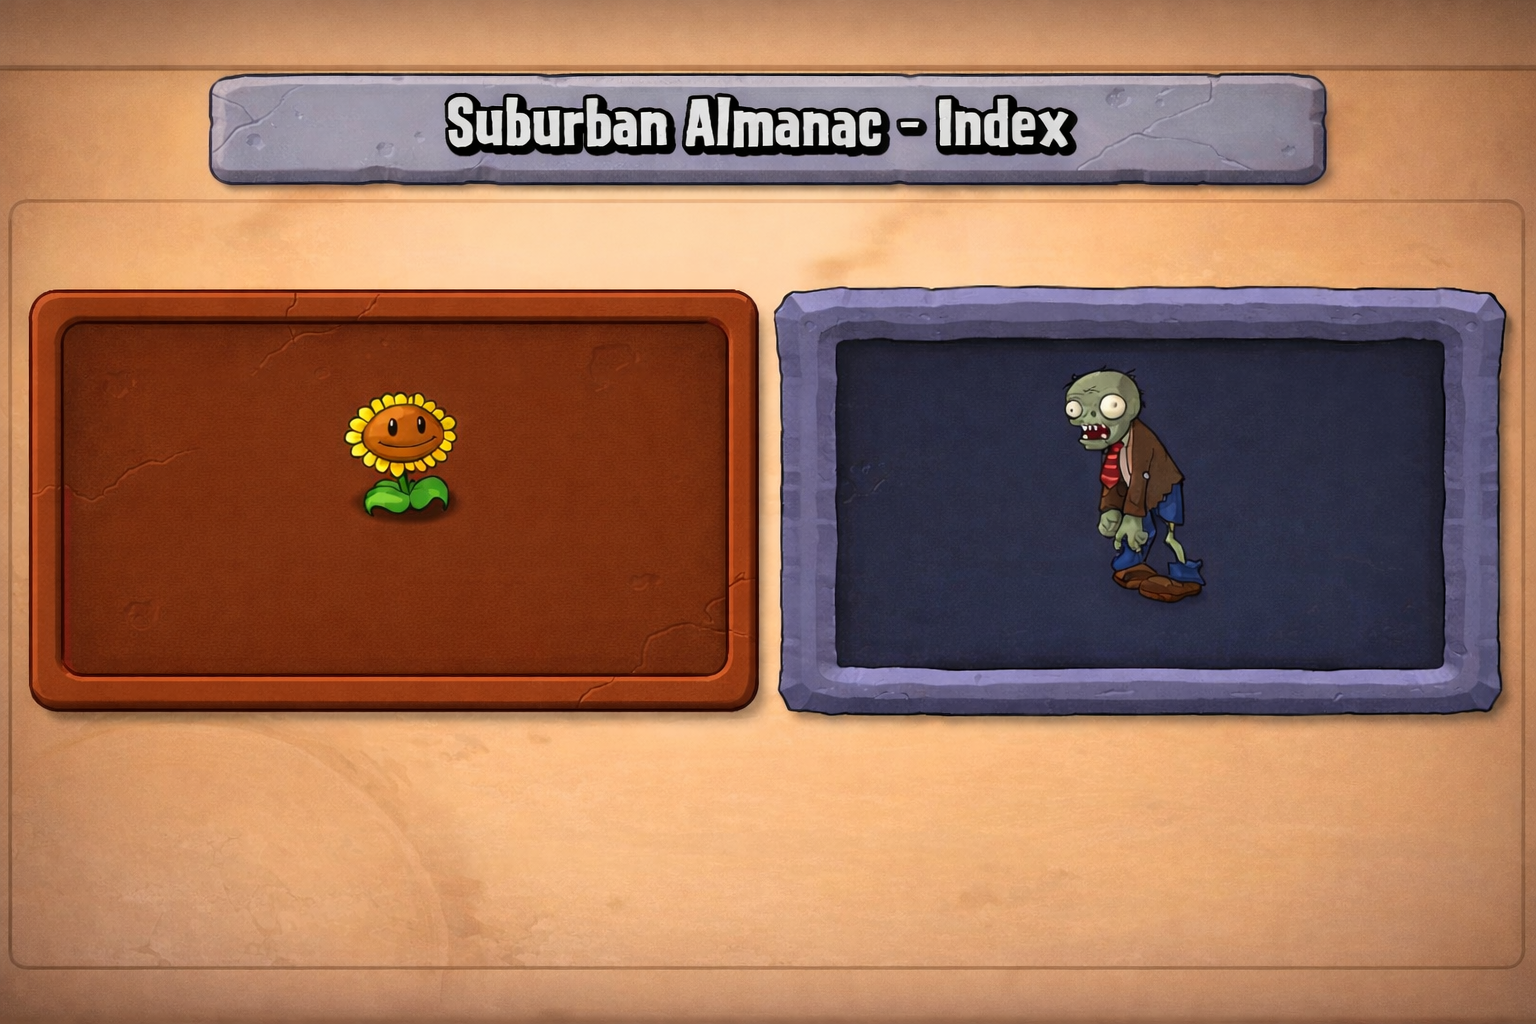
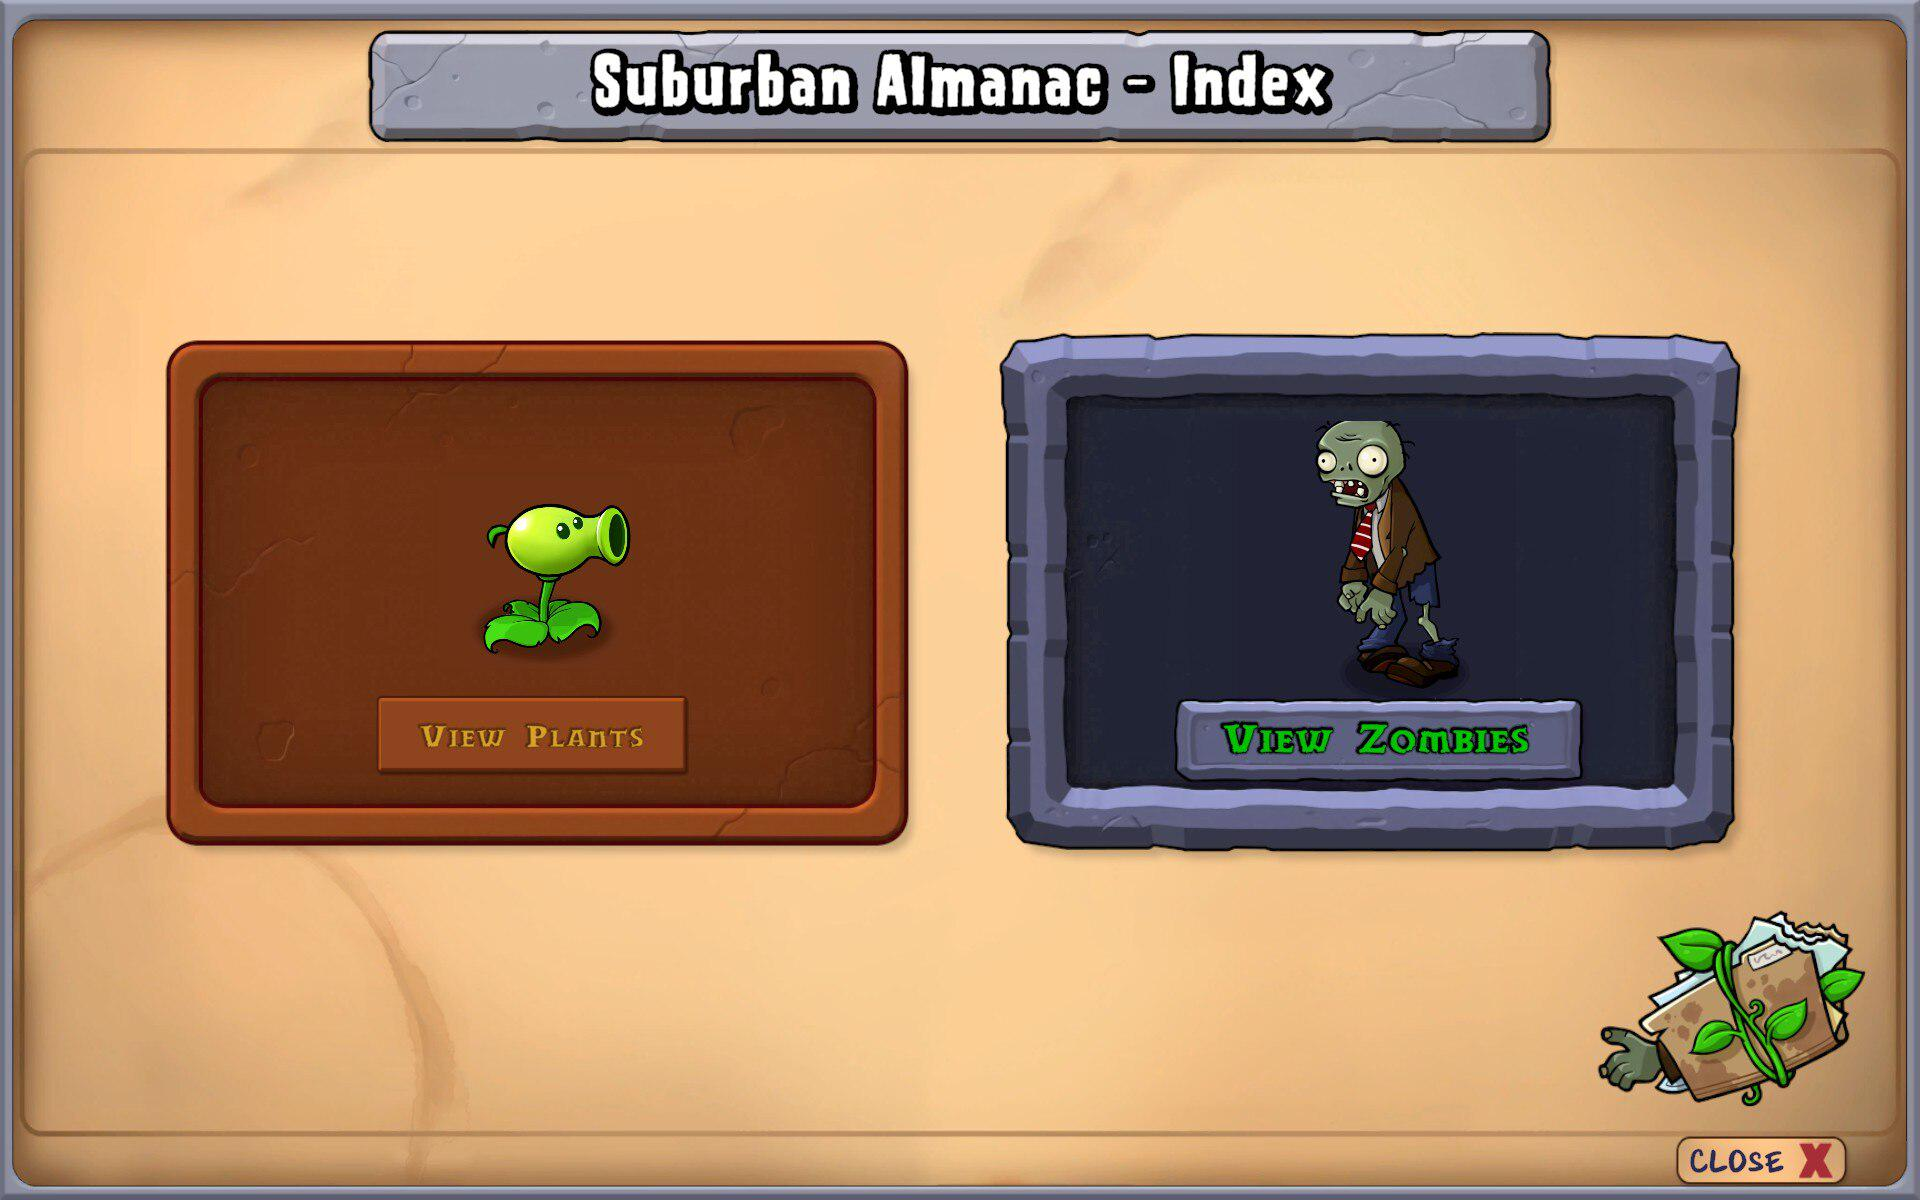
Estils de plants
S'han afegit estils a la pàgina de plantes.

diff --git a/src/app/view/plants-catalog/plants-catalog.html b/src/app/view/plants-catalog/plants-catalog.html
@@ -1,55 +1,84 @@
-<div class="">
-    <button [routerLink]="['/home']">Home</button>
-    <img src="images/pvz2-api-logo.png" alt="PvZ 2 API Logo" class="w-[230px]">
-    <button [routerLink]="['/zombies']">View Zombies</button>    
-</div>
+<div style="background-image: url('images/backgrounds/plants_background.webp')" class="bg-cover bg-[center_40%] bg-fixed bg-no-repeat min-h-screen w-full">
 
-<h2 class="text-2xl">Plants Almanac</h2>
-
-<!-- CERCADOR -->
-<input [(ngModel)]="plantNameSearch" placeholder="Search plant by name...">
-
-<!-- FILTRES -->
-<div class="flex">
-    <p>{{ minCostValue() }}</p>
-    
-    <input type="range" [(ngModel)]="costFilter" 
-    [min]="minCostValue()" 
-    [max]="maxCostValue()"
-    (change)="setCostFilter()">
-    
-    <p>{{ costFilter() }}</p>
-</div>
-
-<!-- FILTRES FAMILIA -->
-<div class="[&_img]:w-[40px]">
-    @for (filter of familyFiltersList(); track $index) {
-        <button (click)="setFamilyFilter(filter.name)">
-            <img [src]="filter.imageIcon" [alt]="filter.name + ' Family'">
-        </button>
-    }
-</div>
-
-<!-- GRID DE CARDS -->
-@if (areAnyResultsInSearch()) {
-    @for (plant of plantsAlmanac(); track $index) {
-        @if (isPlantNameInSearch(plant.name)) {
+    <div class="flex flex-col justify-center items-center">
+        <div class="flex gap-x-20 ml-18 h-45">
+            <button [routerLink]="['/home']">
+                <img src="images/assets/home_icon.webp" alt="Home Page Icon" class="w-20 min-w-[80px] cursor-pointer">
+            </button>
             
-            <div [routerLink]="[(plant.apiName)]" class="border-1">
-                <p>{{ plant.cost }}</p>
-                
-                <div class="">
-                    <img [src]="plant.image" [alt]="plant.name + ' Image'">
-                </div>
-                
-                <h3>{{ plant.name }}</h3>
-                
-                <div class="">
-                    <p>{{ plant.description }}</p>
-                </div>
-            </div>
-        }
-    }
-} @else {
-    <p>No results where found related to the search</p>
-}
+            <img src="images/pvz2-api-logo.png" alt="PvZ 2 API Logo" class="w-70">
+            
+            <button [routerLink]="['/zombies']">
+                <img src="images/assets/zombies_icon.png" alt="Zombies Page Icon" class="w-26 min-w-[100px] cursor-pointer">
+            </button>    
+        </div>
+        
+        <h2>
+            <img src="images/assets/plants_title.png" alt="Plants title" class="w-60">
+        </h2>
+    
+        <!-- CERCADOR -->
+        <input [(ngModel)]="plantNameSearch" placeholder="Search plant by name..." class="w-70 my-5 bg-white px-2 py-1 rounded-md shadow-2xl">
+        
+        <!-- FILTRES -->
+        <div class="flex items-center gap-x-2 text-xl h-8">
+            <p style="background-image: url('images/assets/sun.webp'); text-shadow: 1px 1px 1px rgb(67, 67, 67), -1px -1px 2px rgb(160, 160, 160);"
+            class="flex justify-center items-center bg-cover bg-center bg-no-repeat w-11 h-11 text-center text-white font-semibold">
+                {{ minCostValue() }}
+            </p>
+            
+            <input type="range" [(ngModel)]="costFilter" 
+            [min]="minCostValue()" 
+            [max]="maxCostValue()"
+            (change)="setCostFilter()" class="bg-white rounded accent-yellow-300">
+            
+            <p style="background-image: url('images/assets/sun.webp'); text-shadow: 1px 1px 1px rgb(67, 67, 67), -1px -1px 2px rgb(160, 160, 160);"
+            class="flex justify-center items-center bg-cover bg-center bg-no-repeat w-11 h-11 text-center text-white font-semibold">
+                {{ costFilter() }}
+            </p>
+        </div>
+        
+        <!-- FILTRES FAMILIA -->
+        <div class="flex flex-wrap justify-center gap-2.5 my-5 w-[30%] [&_img]:w-[45px]">
+            @for (filter of familyFiltersList(); track $index) {
+                <button (click)="setFamilyFilter(filter.name)">
+                    <img [src]="filter.imageIcon" [alt]="filter.name + ' Family'">
+                </button>
+            }
+        </div>
+        
+        <!-- GRID DE CARDS -->
+        <div class="w-[80%] mt-5 flex flex-wrap gap-10 justify-center">
+
+            @if (areAnyResultsInSearch()) {
+                @for (plant of plantsAlmanac(); track $index) {
+                    @if (isPlantNameInSearch(plant.name)) {
+                        
+                        <div [routerLink]="[(plant.apiName)]" class="relative w-[250px] h-[310px] bg-[#90421B] border-2 border-[#4C1705] rounded-xl shadow-[inset_0_4px_11px_rgba(0,0,0,0.4)] hover:-translate-y-3 transition-transform duration-400 cursor-pointer">
+                            
+                            <div class="my-5">
+
+                                <p style="background-image: url('images/assets/sun.webp'); text-shadow: 1px 1px 1px rgb(67, 67, 67), -1px -1px 2px rgb(160, 160, 160);"
+                                class="absolute top-[-25px] left-[-20px] flex justify-center items-center bg-cover bg-center bg-no-repeat w-15 h-15 text-center text-white text-2xl font-semibold">
+                                {{ plant.cost }}
+                                </p>
+                                
+                                <div class="flex justify-center bg-[#6C3112] mx-5 py-3 border-2 border-[#4C1705] rounded-xl shadow-[inset_0_4px_11px_rgba(0,0,0,0.4)]">
+                                    <img [src]="plant.image" [alt]="plant.name + ' Image'">
+                                </div>
+                                
+                                <h3 class="text-center text-2xl font-semibold my-2 text-[#E9BB63]">{{ plant.name }}</h3>
+                                
+                                <div class="flex justify-center border-box h-25 bg-[#FCC689] mx-5 py-3 px-2 border-2 border-[#4C1705] rounded-xl line-clamp-1">
+                                    <p>{{ plant.description }}</p>
+                                </div>
+                            </div>
+                        </div>
+                    }
+                }
+            } @else {
+                <p>No results where found related to the search</p>
+            }
+        </div>
+    </div>
+</div>

diff --git a/src/app/view/home/home.html b/src/app/view/home/home.html
@@ -1,3 +1,7 @@
-<button [routerLink]="['/plants']">View Plants </button>
-<button [routerLink]="['/zombies']">View Zombies</button>
-<img src="images/pvz2-api-logo.png" alt="PvZ 2 API Logo" class="w-[230px]">
+<div style="background-image: url('images/backgrounds/home_background.png')" class="bg-cover bg-[center_40%] bg-no-repeat h-screen w-full">
+    <div class="absolute bottom-[30%] w-full flex justify-center gap-x-[540px] border-5 border-red-500">
+        <button [routerLink]="['/plants']" class="">View Plants</button>
+        <button [routerLink]="['/zombies']">View Zombies</button>
+    </div>
+    <img src="images/pvz2-api-logo.png" alt="PvZ 2 API Logo" class="w-[255px] absolute bottom-0 left-1/2 -translate-x-1/2">
+</div>
